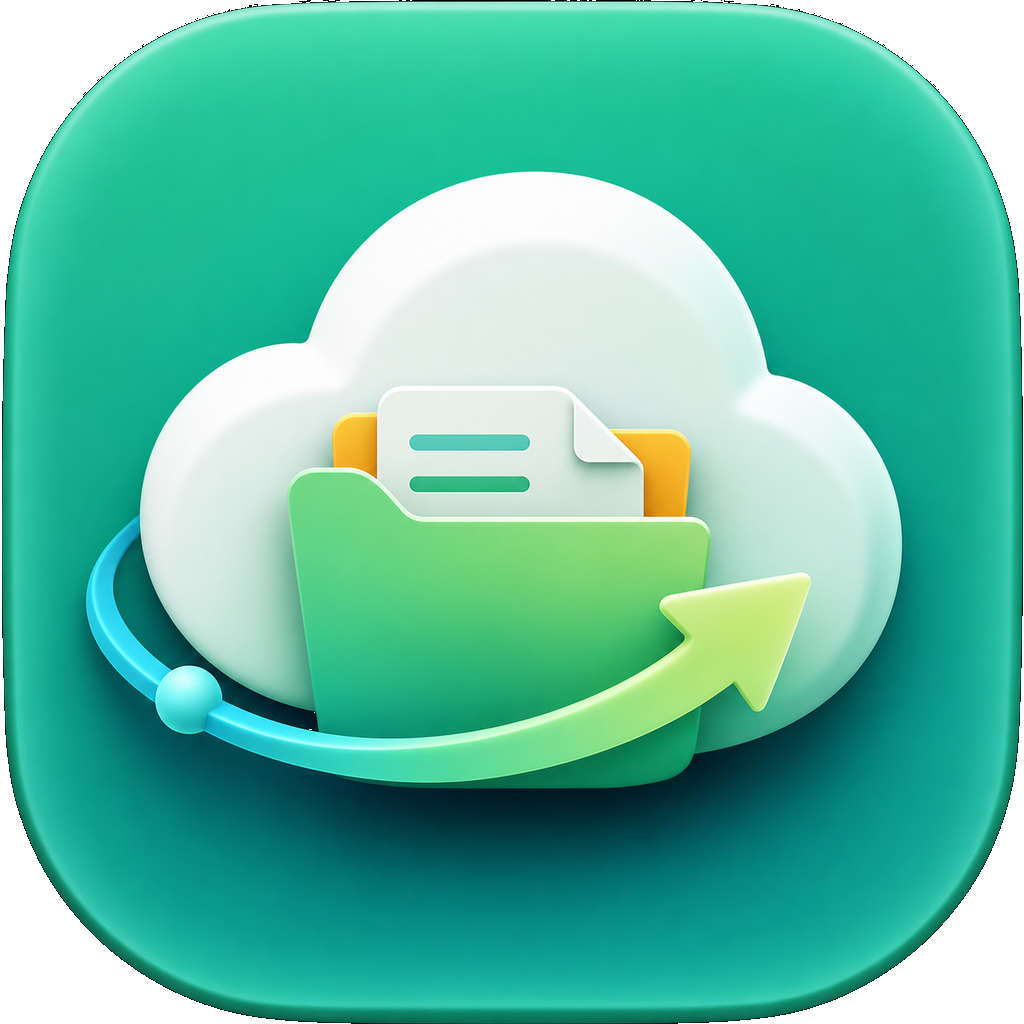
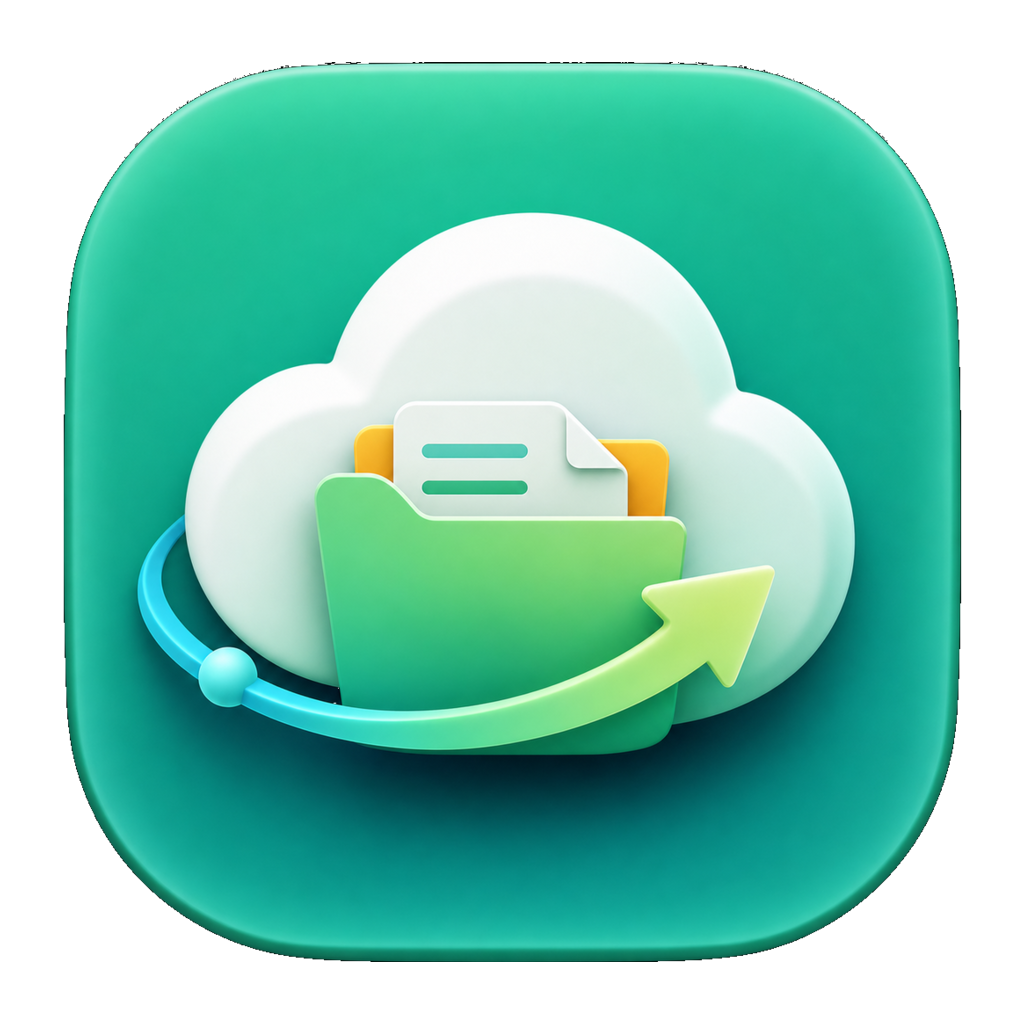
feat: add README, GitHub Release workflow, and auto-update check
- README.md with feature list, download table, dev guide, config paths
- .github/workflows/release.yml: build macOS/Windows/Linux on tag push
- Auto-update: check GitHub releases API on startup, show banner if newer version found
- Add pack:win and pack:linux scripts
- Cross-platform title bar: macOS hiddenInset, Windows/Linux custom controls
- App version shown in empty state

diff --git a/src/main/lib/updater.ts b/src/main/lib/updater.ts
@@ -1,0 +1,60 @@
+import { net } from 'electron'
+import { app } from 'electron'
+import pkg from '../../../package.json'
+
+// Update this to your GitHub repo (owner/repo)
+const REPO = pkg.repository?.replace(/^https:\/\/github\.com\//, '') ?? ''
+
+export interface ReleaseInfo {
+  version: string
+  url: string
+  publishedAt: string
+  body: string
+}
+
+export async function checkForUpdate(): Promise<ReleaseInfo | null> {
+  if (!REPO) return null
+  const current = app.getVersion()
+  return new Promise((resolve) => {
+    const request = net.request({
+      url: `https://api.github.com/repos/${REPO}/releases/latest`,
+      method: 'GET'
+    })
+    request.setHeader('User-Agent', `oss-browser-next/${current}`)
+    request.setHeader('Accept', 'application/vnd.github.v3+json')
+
+    let body = ''
+    request.on('response', (response) => {
+      response.on('data', (chunk) => { body += chunk.toString() })
+      response.on('end', () => {
+        try {
+          const release = JSON.parse(body)
+          const latest = (release.tag_name as string).replace(/^v/, '')
+          if (isNewerVersion(latest, current)) {
+            resolve({
+              version: latest,
+              url: release.html_url,
+              publishedAt: release.published_at,
+              body: release.body || ''
+            })
+          } else {
+            resolve(null)
+          }
+        } catch {
+          resolve(null)
+        }
+      })
+    })
+    request.on('error', () => resolve(null))
+    request.end()
+  })
+}
+
+function isNewerVersion(latest: string, current: string): boolean {
+  const parse = (v: string) => v.split('.').map(Number)
+  const [la, lb, lc] = parse(latest)
+  const [ca, cb, cc] = parse(current)
+  if (la !== ca) return la > ca
+  if (lb !== cb) return lb > cb
+  return lc > cc
+}

diff --git a/src/renderer/src/App.tsx b/src/renderer/src/App.tsx
@@ -1,19 +1,49 @@
-import { useEffect } from 'react'
+import { useEffect, useState } from 'react'
 import { Toaster } from 'sonner'
+import { ExternalLink, X } from 'lucide-react'
 import { Sidebar } from './components/Sidebar'
 import { FileBrowser } from './components/FileBrowser'
 import { TransferPanel } from './components/transfer/TransferPanel'
 import { useAccountStore } from './stores/accounts'
 
+interface UpdateInfo {
+  version: string
+  url: string
+}
+
 export function App() {
   const { load, activeId } = useAccountStore()
+  const [update, setUpdate] = useState<UpdateInfo | null>(null)
 
-  useEffect(() => { load() }, [])
+  useEffect(() => {
+    load()
+    // Check for updates after a short delay to not block startup
+    setTimeout(async () => {
+      try {
+        const info = await window.api.updater.check()
+        if (info) setUpdate({ version: info.version, url: info.url })
+      } catch { /* ignore */ }
+    }, 3000)
+  }, [])
 
   return (
     <div className="flex h-screen overflow-hidden bg-background text-foreground">
       <Sidebar />
       <main className="flex flex-1 flex-col overflow-hidden">
+        {update && (
+          <div className="flex items-center gap-2 border-b border-blue-200 bg-blue-50 px-4 py-2 text-xs text-blue-800 dark:border-blue-800 dark:bg-blue-950 dark:text-blue-200">
+            <span className="flex-1">🎉 发现新版本 v{update.version}，点击下载更新</span>
+            <button
+              onClick={() => window.api.shell.openExternal(update.url)}
+              className="flex items-center gap-1 rounded px-2 py-0.5 font-medium hover:bg-blue-100 dark:hover:bg-blue-900 transition-colors"
+            >
+              <ExternalLink className="h-3 w-3" /> 查看
+            </button>
+            <button onClick={() => setUpdate(null)} className="text-blue-500 hover:text-blue-700 dark:hover:text-blue-300 transition-colors">
+              <X className="h-3.5 w-3.5" />
+            </button>
+          </div>
+        )}
         {activeId ? (
           <FileBrowser />
         ) : (
@@ -21,6 +51,7 @@ export function App() {
             <div className="text-center">
               <div className="text-4xl mb-3">☁️</div>
               <div>在左侧添加账号开始使用</div>
+              <div className="mt-2 text-xs opacity-50">v{window.api.updater.currentVersion}</div>
             </div>
           </div>
         )}

diff --git a/src/main/ipc/handlers.ts b/src/main/ipc/handlers.ts
@@ -7,6 +7,7 @@ import {
   setActiveAccount, getActiveId, exportConfig, importConfig
 } from '../lib/accounts'
 import { getClient, invalidateClient } from '../lib/oss-factory'
+import { checkForUpdate } from '../lib/updater'
 
 // Keys that should be cancelled on next progress tick
 const cancelledKeys = new Set<string>()
@@ -438,3 +439,7 @@ ipcMain.handle('window:maximize', () => {
   win.isMaximized() ? win.unmaximize() : win.maximize()
 })
 ipcMain.handle('window:close', () => BrowserWindow.getFocusedWindow()?.close())
+
+// ─── Updater ─────────────────────────────────────────────────────────────────
+
+ipcMain.handle('updater:check', () => checkForUpdate())

diff --git a/src/preload/index.ts b/src/preload/index.ts
@@ -1,4 +1,5 @@
 import { contextBridge, ipcRenderer } from 'electron'
+import { version } from '../../package.json'
 
 const api = {
   accounts: {
@@ -78,6 +79,10 @@ const api = {
     maximize: () => ipcRenderer.invoke('window:maximize'),
     close: () => ipcRenderer.invoke('window:close'),
     platform: process.platform
+  },
+  updater: {
+    check: () => ipcRenderer.invoke('updater:check'),
+    currentVersion: version
   }
 }
 

diff --git a/src/preload/index.d.ts b/src/preload/index.d.ts
@@ -99,6 +99,10 @@ declare global {
         close: () => Promise<void>
         platform: string
       }
+      updater: {
+        check: () => Promise<{ version: string; url: string; publishedAt: string; body: string } | null>
+        currentVersion: string
+      }
     }
   }
 }

diff --git a/README.md b/README.md
@@ -1,0 +1,79 @@
+# OSS Browser Next
+
+阿里云 OSS 桌面客户端，基于 Electron 28 + React 18 + TypeScript 的现代化重写版本。
+
+## 功能
+
+- **多账号管理** — 支持多个阿里云账号，AES 加密本地存储
+- **文件浏览** — 列表/网格视图、排序、全文搜索
+- **上传** — 单文件、多文件、文件夹上传，大文件自动分片，支持拖拽
+- **下载** — 单文件、批量下载
+- **文件操作** — 重命名、复制、移动（含目录递归）
+- **预览** — 图片（缩放/旋转）、视频、音频、文本/代码
+- **传输队列** — 实时进度、支持取消
+- **右键菜单** — 完整操作集
+- **Bucket 管理** — 创建、删除 Bucket
+- **元数据** — 设置 ACL、HTTP 请求头（Content-Type / Cache-Control 等）、查看文件详情
+- **自动更新** — 启动时检查 GitHub Release 最新版本
+- **自定义域名** — 支持 CNAME 自定义域名生成签名 URL
+- **跨平台** — macOS / Windows / Linux
+
+## 下载
+
+前往 [Releases](../../releases) 下载最新版本：
+
+| 平台 | 文件 |
+|------|------|
+| macOS (Apple Silicon) | `OSS-Browser-Next-*-arm64.zip` |
+| macOS (Intel) | `OSS-Browser-Next-*-x64.zip` |
+| Windows | `OSS-Browser-Next-*-Setup.exe` |
+| Linux | `OSS-Browser-Next-*.AppImage` |
+
+## 开发
+
+```bash
+# 安装依赖
+npm install
+
+# 启动开发模式
+npm run dev
+
+# 构建
+npm run build
+
+# 打包
+npm run pack:mac        # macOS arm64
+npm run pack:mac-x64    # macOS x64
+npm run pack:win        # Windows x64
+npm run pack:linux      # Linux x64 (AppImage)
+```
+
+**环境要求：** Node.js 18+
+
+中国用户打包时建议设置镜像加速 Electron 下载：
+
+```bash
+ELECTRON_MIRROR=https://npmmirror.com/mirrors/electron/ npm run pack:mac
+```
+
+## 配置文件位置
+
+账号配置加密存储在：
+
+| 平台 | 路径 |
+|------|------|
+| macOS | `~/Library/Application Support/oss-browser-next/accounts.json` |
+| Windows | `%APPDATA%\oss-browser-next\accounts.json` |
+| Linux | `~/.config/oss-browser-next/accounts.json` |
+
+## Tech Stack
+
+- [Electron 28](https://www.electronjs.org/) + [electron-vite](https://electron-vite.org/)
+- [React 18](https://react.dev/) + TypeScript
+- [Tailwind CSS](https://tailwindcss.com/) + [Radix UI](https://www.radix-ui.com/)
+- [Zustand](https://zustand-demo.pmnd.rs/) — 状态管理
+- [ali-oss](https://github.com/ali-sdk/ali-oss) — 阿里云 OSS SDK
+
+## License
+
+MIT